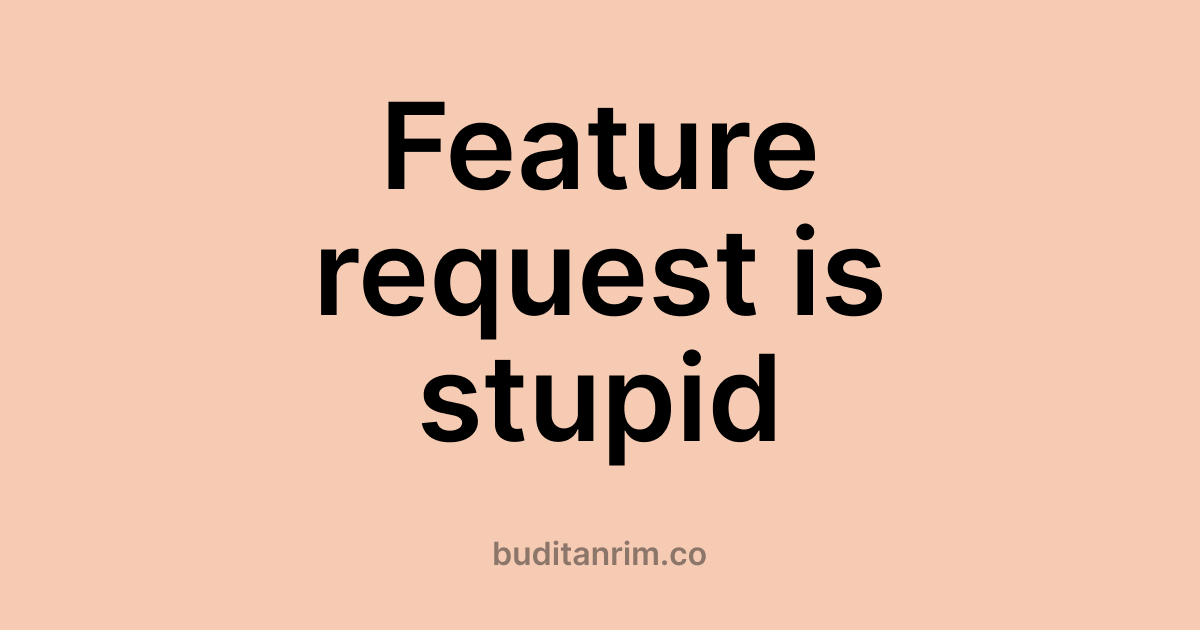
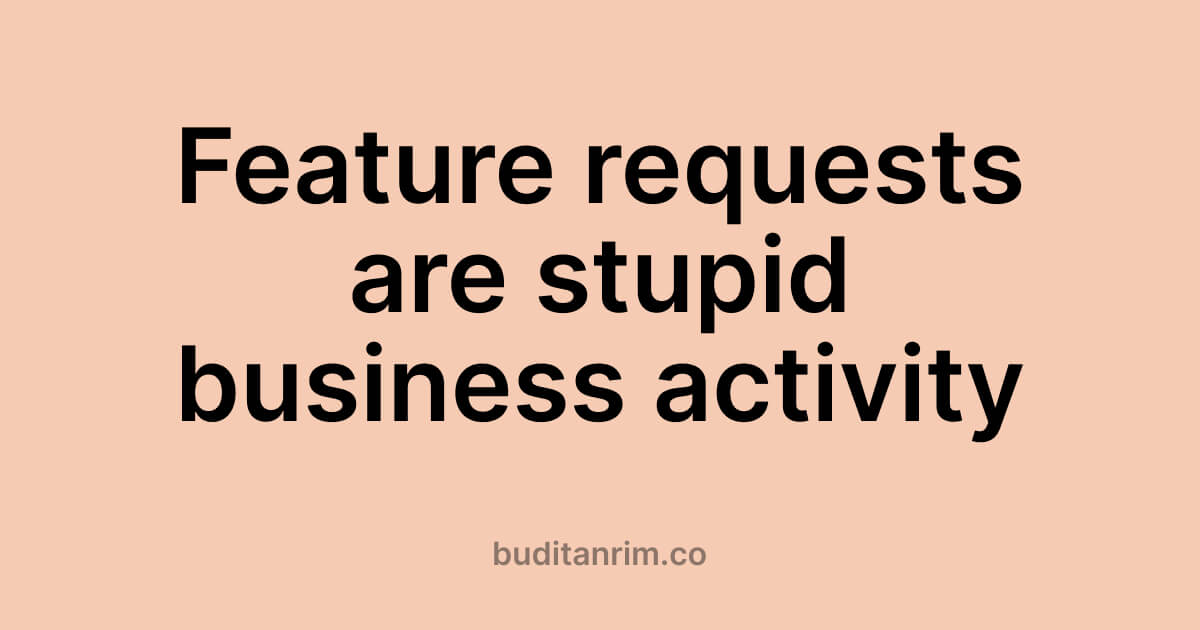
images and title revision

Changed region(s): [[0.1542, 0.1508, 0.8633, 0.5429], [0.1542, 0.5429, 0.8633, 0.754]]

diff --git a/_posts/2020-12-29-feature-request-is-stupid.md b/_posts/2020-12-29-feature-request-is-stupid.md
@@ -1,6 +1,6 @@
 ---
 layout: post
-title: "A feature request is stupid"
+title: "Feature requests are stupid activity"
 punchline: true
 description: "The problem with feature requests is that the team can't pivot even if they found it does not solve customer problems. "
 date: 2020-12-30 08:30:00 +0700
@@ -25,10 +25,10 @@ The problem with feature requests is that the team can't pivot even if they foun
 
 The team will focus on the output instead of the outcome. They will start to celebrate success when they deliver features instead of delivering value to the customer.
 
-The feature request is stupid.
+The feature request is stupid as a culture and as a business activity.
 
-The alternative is to set the objective, not hand down the solution. If you're a leader, you should be strategic, communicate the vision, and remember you don't always right. Your feature request is probably not going to solve any problems, especially when there is no validation or concrete data to prove your hypothesis.
+But why does the company's leader fall into this mindset? That's for another time.
 
-Feature request is mostly a hypothesis. It's stupid to invest and execute it right away. You're gambling.
+The alternative is to set the objective, not hand down the solution. Leaders should be strategic, communicate the vision, define the strategic intent, and remember you don't always right. Allow the team on the ground to explore and do some experimentation. Feature request is mostly a hypothesis. Don't invest and execute it right away. You're gambling.
 
 Set the objective. Give space to discover unknown unknowns. Focus on the outcome, not the output.
